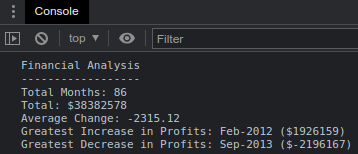
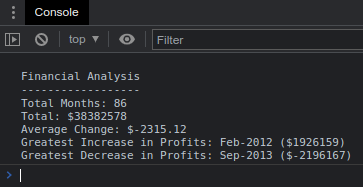
new screenshot.png

diff --git a/index.js b/index.js
@@ -126,7 +126,7 @@ Financial Analysis
 ------------------
 Total Months: ${totalMonths}
 Total: $${totalAmount}
-Average Change: ${averageChange}
+Average Change: $${averageChange}
 Greatest Increase in Profits: ${greatestIncreaseMonth} ($${greatestIncrease})
 Greatest Decrease in Profits: ${greatestDecreaseMonth} ($${greatestDecrease})
 `);
